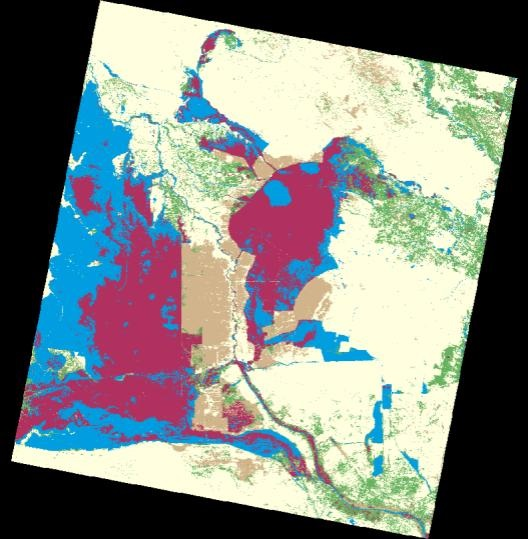
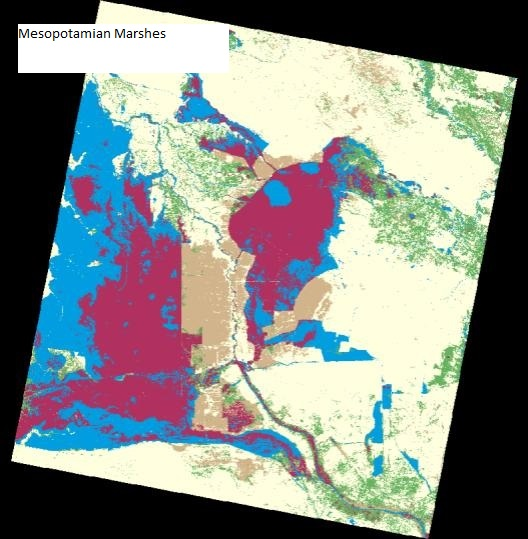
configuring hidden text and pictures

Changed region(s): [[0.0303, 0.0297, 0.4545, 0.1484]]

diff --git a/index.html b/index.html
@@ -107,44 +107,38 @@
         <div class="col-lg-8 mx-auto">
           <h1>Portfolio</h1>
 			<!--                                            -->
-			<div class='menu-container'>
-				<div class='menu'>
-					<div class='date'>Jan 10, 2018</div>
-					<div class='links'>
-						<div class='signup'>Sign Up</div>
-						<div class='login'>Login</div>
+			<div class='square-grid'>
+				<div class='square-grid__cell square-grid__cell--3'>
+					<div class='square-grid__content'>
+						<div id='wrapper'>
+							<img src='img/one.svg' class='hover'/>
+							<p class='text'>test</p>
+						</div>
 					</div>
 				</div>
-			</div>
-			<div class='header-container'>
-				<div class='header'>
-					<div class='subscribe'>Subscribe &#9662;</div>
-					<div class='logo'><img src='img/awesome-logo.svg'/></div>
-					<div class='social'><img src='img/social-icons.svg'/></div>
-				</div>
-			</div>
-			<div class='photo-grid-container'>
-				<div class='photo-grid'>
-					<div class='photo-grid-item first-item'>
-						<img src='img/one.svg'/>
-					</div>
-					<div class='photo-grid-item'>
-						<img src='img/two.svg'/>
-					</div>
-					<div class='photo-grid-item'>
-						<img src='img/three.svg'/>
-					</div>
-					<div class='photo-grid-item'>
-						<img src='img/four.svg'/>
-					</div>
-					<div class='photo-grid-item last-item'>
-						<img src='img/five.svg'/>
+				<div class='square-grid__cell square-grid__cell--3'>
+					<div class='square-grid__content'>
+						<div id='wrapper'>
+							<img src='img/mesopotamia.jpg' class='hover'/>
+							<p class='text'>test</p>
+						</div>
 					</div>
 				</div>
-				<div class='footer'>
-					<div class='footer-item footer-one'></div>
-					<div class='footer-item footer-two'></div>
-					<div class='footer-item footer-three'></div>
+				<div class='square-grid__cell square-grid__cell--3'>
+					<div class='square-grid__content'>
+						<div id='wrapper'>
+							<img src='img/woodlawn_e.png' class='hover'/>
+							<p class='text'>test</p>
+						</div>
+					</div>
+				</div>
+				<div class='square-grid__cell square-grid__cell--3'>
+					<div class='square-grid__content'>
+						<div id='wrapper'>
+							<img src='img/gr_bus.png' class='hover'/>
+							<p class='text'>test</p>
+						</div>
+					</div>
 				</div>
 			</div>
 			<!--                                            -->

diff --git a/css/grayscale.css b/css/grayscale.css
@@ -225,83 +225,90 @@ body {
 
 					
 
-.menu-container{
-	color: #fff;
-	background-color: #5995DA;
-	padding: 20px 0;
+.square-grid img{
+	opacity: 0.5;
+}
+
+.square-grid {
+  display: flex;
+  flex-wrap: wrap;
+  justify-content: center;
+}
+
+.square-grid__cell { /*aligner*/
 	display: flex;
-	justify-content: center;
+    background-color: rgba(0, 0, 0, 0.03);
+    box-shadow: 0 0 0 1px black;
+    overflow: hidden;
+    position: relative;
+    align-items: center;
+    justify-content: center;
+}
+.square-grid__content {
+	left: 0;
+	position: absolute;
+	top: 0;
 }
 
-.menu{
-	width:900px;
-	display: flex;
-	justify-content: space-between;
+.square-grid__cell:after {
+  content: '';
+  display: block;
+  padding-bottom: 100%;
+}
+#wrapper .text {
+position:relative;
+bottom:200px;
+left:0px;
+visibility:hidden;
 }
 
-.date{
-	margin-left: 10px;
+#wrapper:hover .text {
+visibility:visible;
 }
 
-.links {
-	display: flex;
-	justify-content; flex-end;
+
+				
+
+// Sizes – Number of cells per row
+
+.square-grid__cell--10 {
+  flex-basis: 10%;
 }
 
-.login {
-	margin-left: 20px;
-	margin-right: 10px;
+.square-grid__cell--9 {
+  flex-basis: 11.1111111%;
 }
 
-.header-container {
-	color: #5995DA;
-	background-color: #D6E9FE;
-	display: flex;
-	justify-content: center;
+.square-grid__cell--8 {
+  flex-basis: 12.5%;
 }
 
-.header {
-	width: 900px;
-	height: 300px;
-	display: flex;
-	justify-content: space-between;
-	align-items: center;
+.square-grid__cell--7 {
+  flex-basis: 14.2857143%;
 }
 
-.photo-grid-container {
-	display: flex;
-	justify-content: center;
+.square-grid__cell--6 {
+  flex-basis: 16.6666667%;
 }
 
-.photo-grid{
-	width: 900px;
-	display: flex;
-	justify-content: center;
-	flex-wrap: wrap;
-	flex-direction: row;
-	align-items: center;
+.square-grid__cell--5 {
+  flex-basis: 20%;
 }
 
-.photo-grid-item {
-	border: 1px solid #fff;
-	width: 300px;
-	height: 300px;
+.square-grid__cell--4 {
+  flex-basis: 25%;
 }
 
-.social,
-.subscribe {
-	align-self: flex-end;
-	margin-bottom: 20px;
+.square-grid__cell--3 {
+  flex-basis: 33.333%;
 }
 
-.footer {
-	display: flex;
-	justify-content: space-between;
+.square-grid__cell--2 {
+  flex-basis: 50%;
 }
 
-.footer-item{
-	border: 1px solid #fff;
-	background-color: #D6E9FE;
-	height: 200px;
-	flex: 1;
+.square-grid__cell--1 {
+  flex-basis: 100%;
 }
+
+
